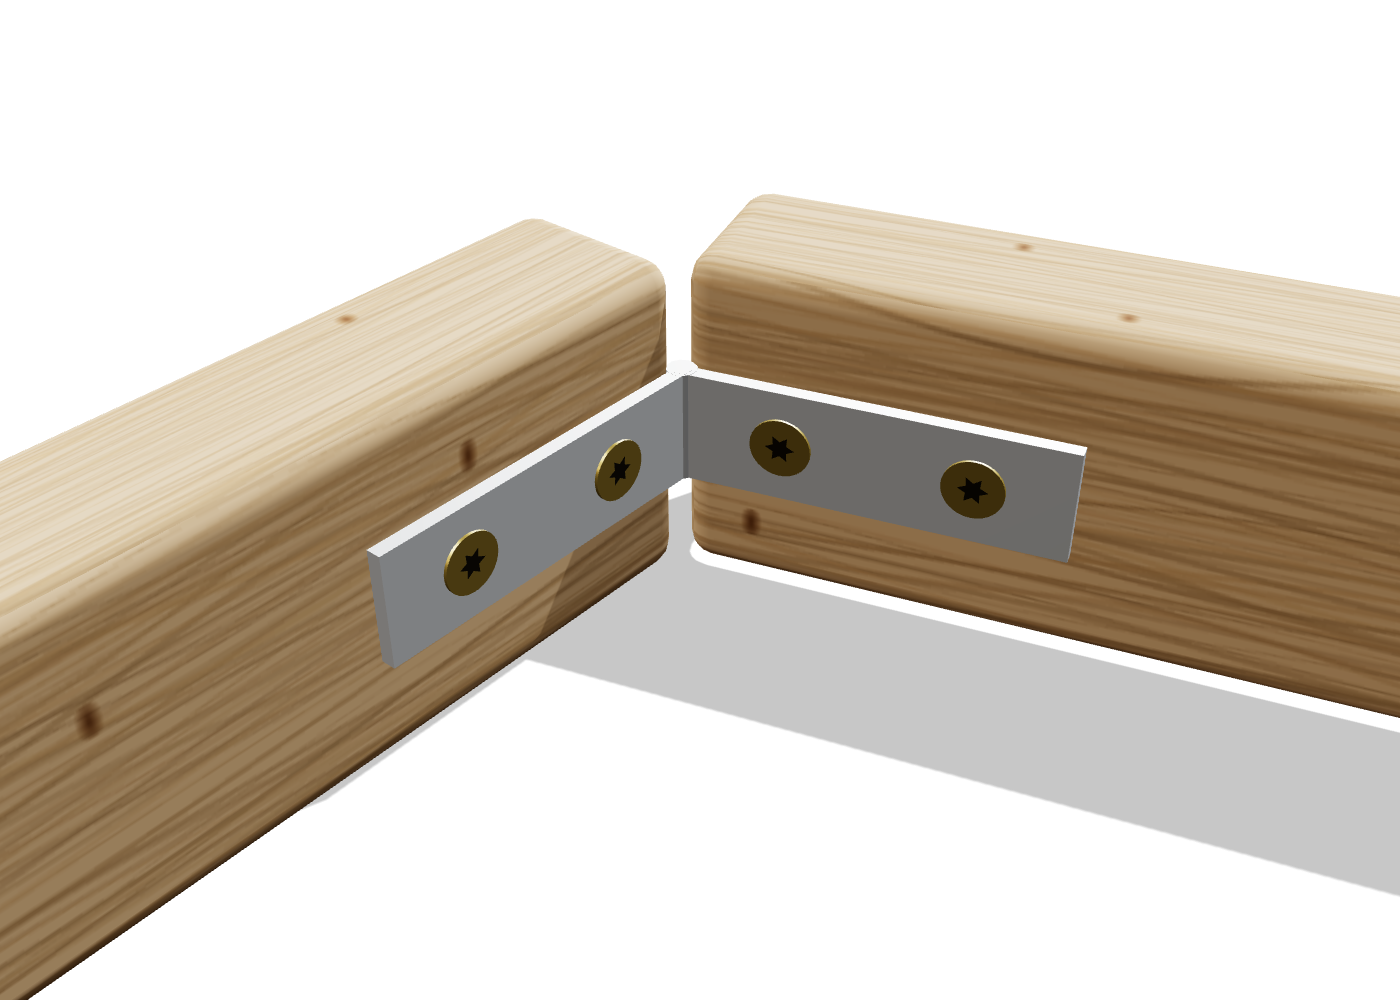
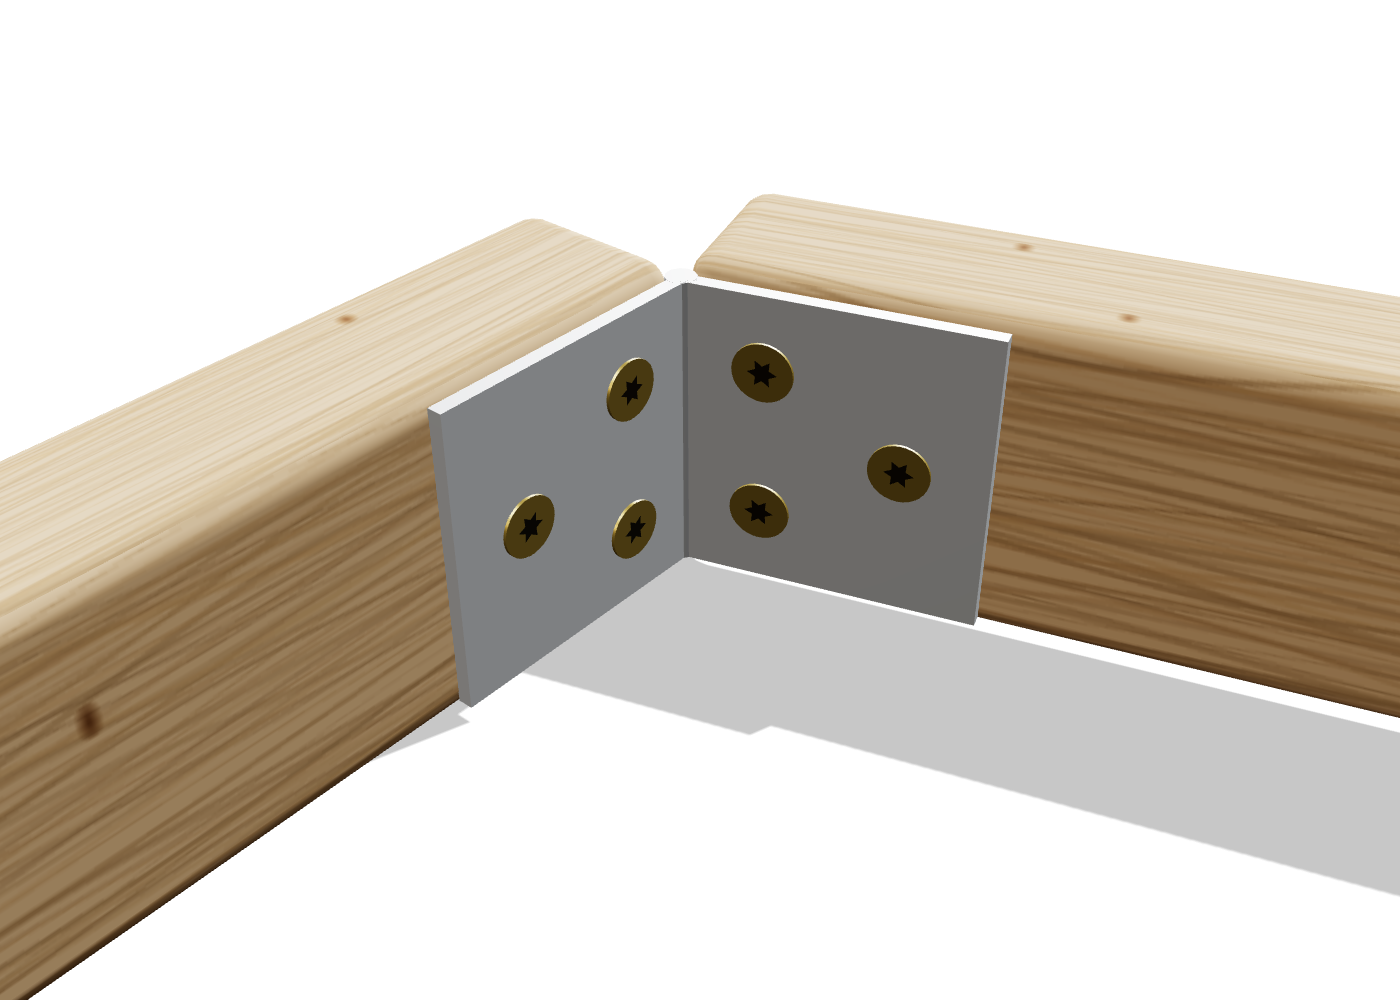
Weihnachtsstern: Winkelverbinder 40x40x40 mm, 2 mm, 6 Schrauben je Winkel
- neues Produktfoto und 3D-Nahaufnahme mit 3 Loechern je Schenkel
- 60 Schrauben 4,0 x 20 mm statt 40
- Hinweis zum Aufbiegen des 2-mm-Blechs im Schraubstock

Claude-Session: https://claude.ai/code/session_01VgMNkzD63aGQyEav3Mt2Fj

Changed region(s): [[0.2457, 0.279, 0.7986, 0.744], [0.2457, 0.744, 0.2764, 0.775], [0.215, 0.775, 0.2457, 0.806]]

diff --git a/docs/weihnachtsstern/r3d/scene.html b/docs/weihnachtsstern/r3d/scene.html
@@ -164,26 +164,26 @@ function bentBracket(g, I, eA, eB, yc) {
   const pts = {};
   for (const e of [eA, eB]) {
     let n = mid.clone().sub(e.clone().multiplyScalar(mid.dot(e))).normalize(); // face normal pointing out of the wood
-    const len = 5.0, th = 0.2, hgt = 1.5;
+    const len = 4.0, th = 0.2, hgt = 4.0;   // Winkelverbinder 40 x 40 x 40 mm, 2 mm
     const c = C.clone().add(e.clone().multiplyScalar(len / 2)).add(n.clone().multiplyScalar(th / 2));
     const fl = new THREE.Mesh(new THREE.BoxGeometry(len, hgt, th), steel);
     fl.position.set(c.x, yc, c.y); fl.rotation.y = -Math.atan2(e.y, e.x); fl.castShadow = true; g.add(fl);
     const n3 = new THREE.Vector3(n.x, 0, n.y);
-    for (const f of [1.4, 3.8]) {
+    for (const [f, dy] of [[1.15, 1.0], [1.15, -1.0], [2.9, 0]]) {   // 3 holes per flange
       const p = C.clone().add(e.clone().multiplyScalar(f)).add(n.clone().multiplyScalar(th));
       // countersunk head (Senkkopf), yellow-zinc, sits flush in the bracket hole
       const head = new THREE.Mesh(new THREE.CylinderGeometry(0.39, 0.39, 0.06, 32), yzinc);
-      head.position.set(p.x + n.x * 0.01, yc, p.y + n.y * 0.01);
+      head.position.set(p.x + n.x * 0.01, yc + dy, p.y + n.y * 0.01);
       head.quaternion.setFromUnitVectors(new THREE.Vector3(0, 1, 0), n3);
       head.castShadow = true; g.add(head);
       const tx = new THREE.Mesh(torxGeo, darkMat);
-      tx.position.set(p.x + n.x * 0.045, yc, p.y + n.y * 0.045);
+      tx.position.set(p.x + n.x * 0.045, yc + dy, p.y + n.y * 0.045);
       tx.quaternion.setFromUnitVectors(new THREE.Vector3(0, 0, 1), n3);
       g.add(tx);
     }
   }
   // rounded bend
-  const bend = new THREE.Mesh(new THREE.CylinderGeometry(0.2, 0.2, 1.5, 12), steel);
+  const bend = new THREE.Mesh(new THREE.CylinderGeometry(0.2, 0.2, 4.0, 12), steel);
   const bc = C.clone().add(mid.clone().multiplyScalar(0.08));
   bend.position.set(bc.x, yc, bc.y); g.add(bend);
   return C;

diff --git a/docs/weihnachtsstern/build_anleitung.py b/docs/weihnachtsstern/build_anleitung.py
@@ -578,8 +578,8 @@ def page_material():
     P_ = lambda n: (lambda x, yy, w, h: place(n, x + 10, yy + 38, w - 20, h - 62))
     mats = [
         ("5 ×", "Klappbock aus Holz", "ca. 80 cm hoch", P_("p_klappbock")),
-        ("10 ×", "Winkel 50×50×15 mm", "verzinkt, je 4 Löcher", P_("p_winkel")),
-        ("40 ×", "Schrauben 4,0×20 mm", "Senkkopf, Torx TX20", P_("p_schraube")),
+        ("10 ×", "Winkelverbinder 40×40×40", "2 mm, verzinkt, CE, je 6 Löcher", P_("p_winkel")),
+        ("60 ×", "Schrauben 4,0×20 mm", "Senkkopf, Torx TX20", P_("p_schraube")),
         ("1 ×", "Clusterlichterkette", "1200 LEDs · 23,98 m · IP44", P_("p_lichterkette")),
     ]
     for i, (q, n, note, d) in enumerate(mats):
@@ -767,8 +767,8 @@ def page_steps34():
 
     step_badge(M, y, 4, "Mit Winkeln verschrauben")
     y -= 36
-    h = para("An jede der 5 Verbindungsstellen kommen <b>2 Winkel (50 × 50 × 15 mm)</b>: einer an die <b>oberen</b> Beine, einer an die <b>unteren</b>. "
-             "Sie sitzen <b>außen in der Ecke</b>, du musst den Stern also nicht umdrehen. Jeder Winkel bekommt <b>4 Schrauben 4,0 × 20 mm</b> (2 je Schenkel), zusammen 40 Stück.", M, y, W - 2 * M, size=10.5)
+    h = para("An jede der 5 Verbindungsstellen kommen <b>2 Winkelverbinder (40 × 40 × 40 mm, 2 mm)</b>: einer an die <b>oberen</b> Beine, einer an die <b>unteren</b>. "
+             "Sie sitzen <b>außen in der Ecke</b>, du musst den Stern also nicht umdrehen. Jeder Winkel bekommt <b>6 Schrauben 4,0 × 20 mm</b> (3 je Schenkel), zusammen 60 Stück.", M, y, W - 2 * M, size=10.5)
     y -= h + 8
     subs = [("A", "Winkel aufbiegen", "Auf ca. 108° aufbiegen, bis beide Schenkel flach am Holz liegen."),
             ("B", "Oben anschrauben", "Winkel mittig an die oberen Beine setzen und festschrauben."),
@@ -788,7 +788,7 @@ def page_steps34():
     lw_ = 300
     place("joint_close", M + 6, y - ih + 22, lw_, ih - 50)
     c.setFillColor(RED); c.setFont("B", 9.5); c.drawString(M + 14, y - 18, "Nahaufnahme: Winkel liegt vollflächig am Holz")
-    c.setFillColor(GREY); c.setFont("I", 8.5); c.drawString(M + 14, y - ih + 10, "Winkel 50 × 50 × 15 mm, auf ca. 108° aufgebogen, Schrauben 4,0 × 20 mm")
+    c.setFillColor(GREY); c.setFont("I", 8.5); c.drawString(M + 14, y - ih + 10, "Winkelverbinder 40 × 40 × 40 mm, auf ca. 108° aufgebogen, 6 Schrauben 4,0 × 20 mm")
     # divider
     c.setStrokeColor(HexColor("#EAD9CC")); c.setLineWidth(.7); c.line(M + lw_ + 14, y - 12, M + lw_ + 14, y - ih + 12)
     # overview with top/bottom labels
@@ -802,8 +802,8 @@ def page_steps34():
         c.setFillColor(RED); c.setFont("B", 9); c.drawString(W - M - 63, yy - 3, lab)
     c.setFillColor(GREY); c.setFont("I", 8.5); c.drawString(ox_ + 4, y - ih + 10, "Eine Verbindungsstelle von außen")
     y -= ih + 12
-    tip_box(M, y, W - 2 * M, "Die Böcke treffen mit <b>ca. 108°</b> aufeinander, nicht mit 90°. Darum den Winkel im <b>Schraubstock</b> leicht aufbiegen. "
-            "Tipp: erst einen Schenkel anschrauben, dann den zweiten flach ans Holz drücken und anschrauben.",
+    tip_box(M, y, W - 2 * M, "Die Böcke treffen mit <b>ca. 108°</b> aufeinander, nicht mit 90°. Darum den Winkel im <b>Schraubstock</b> aufbiegen – bei 2 mm Blech am besten mit einem Rohr als Hebel. "
+            "Zwischendurch an der Ecke anhalten, bis beide Schenkel flach am Holz liegen – erst dann anschrauben.",
             "Warum aufbiegen?")
 
 def joint_detail(ox, oy, s):
